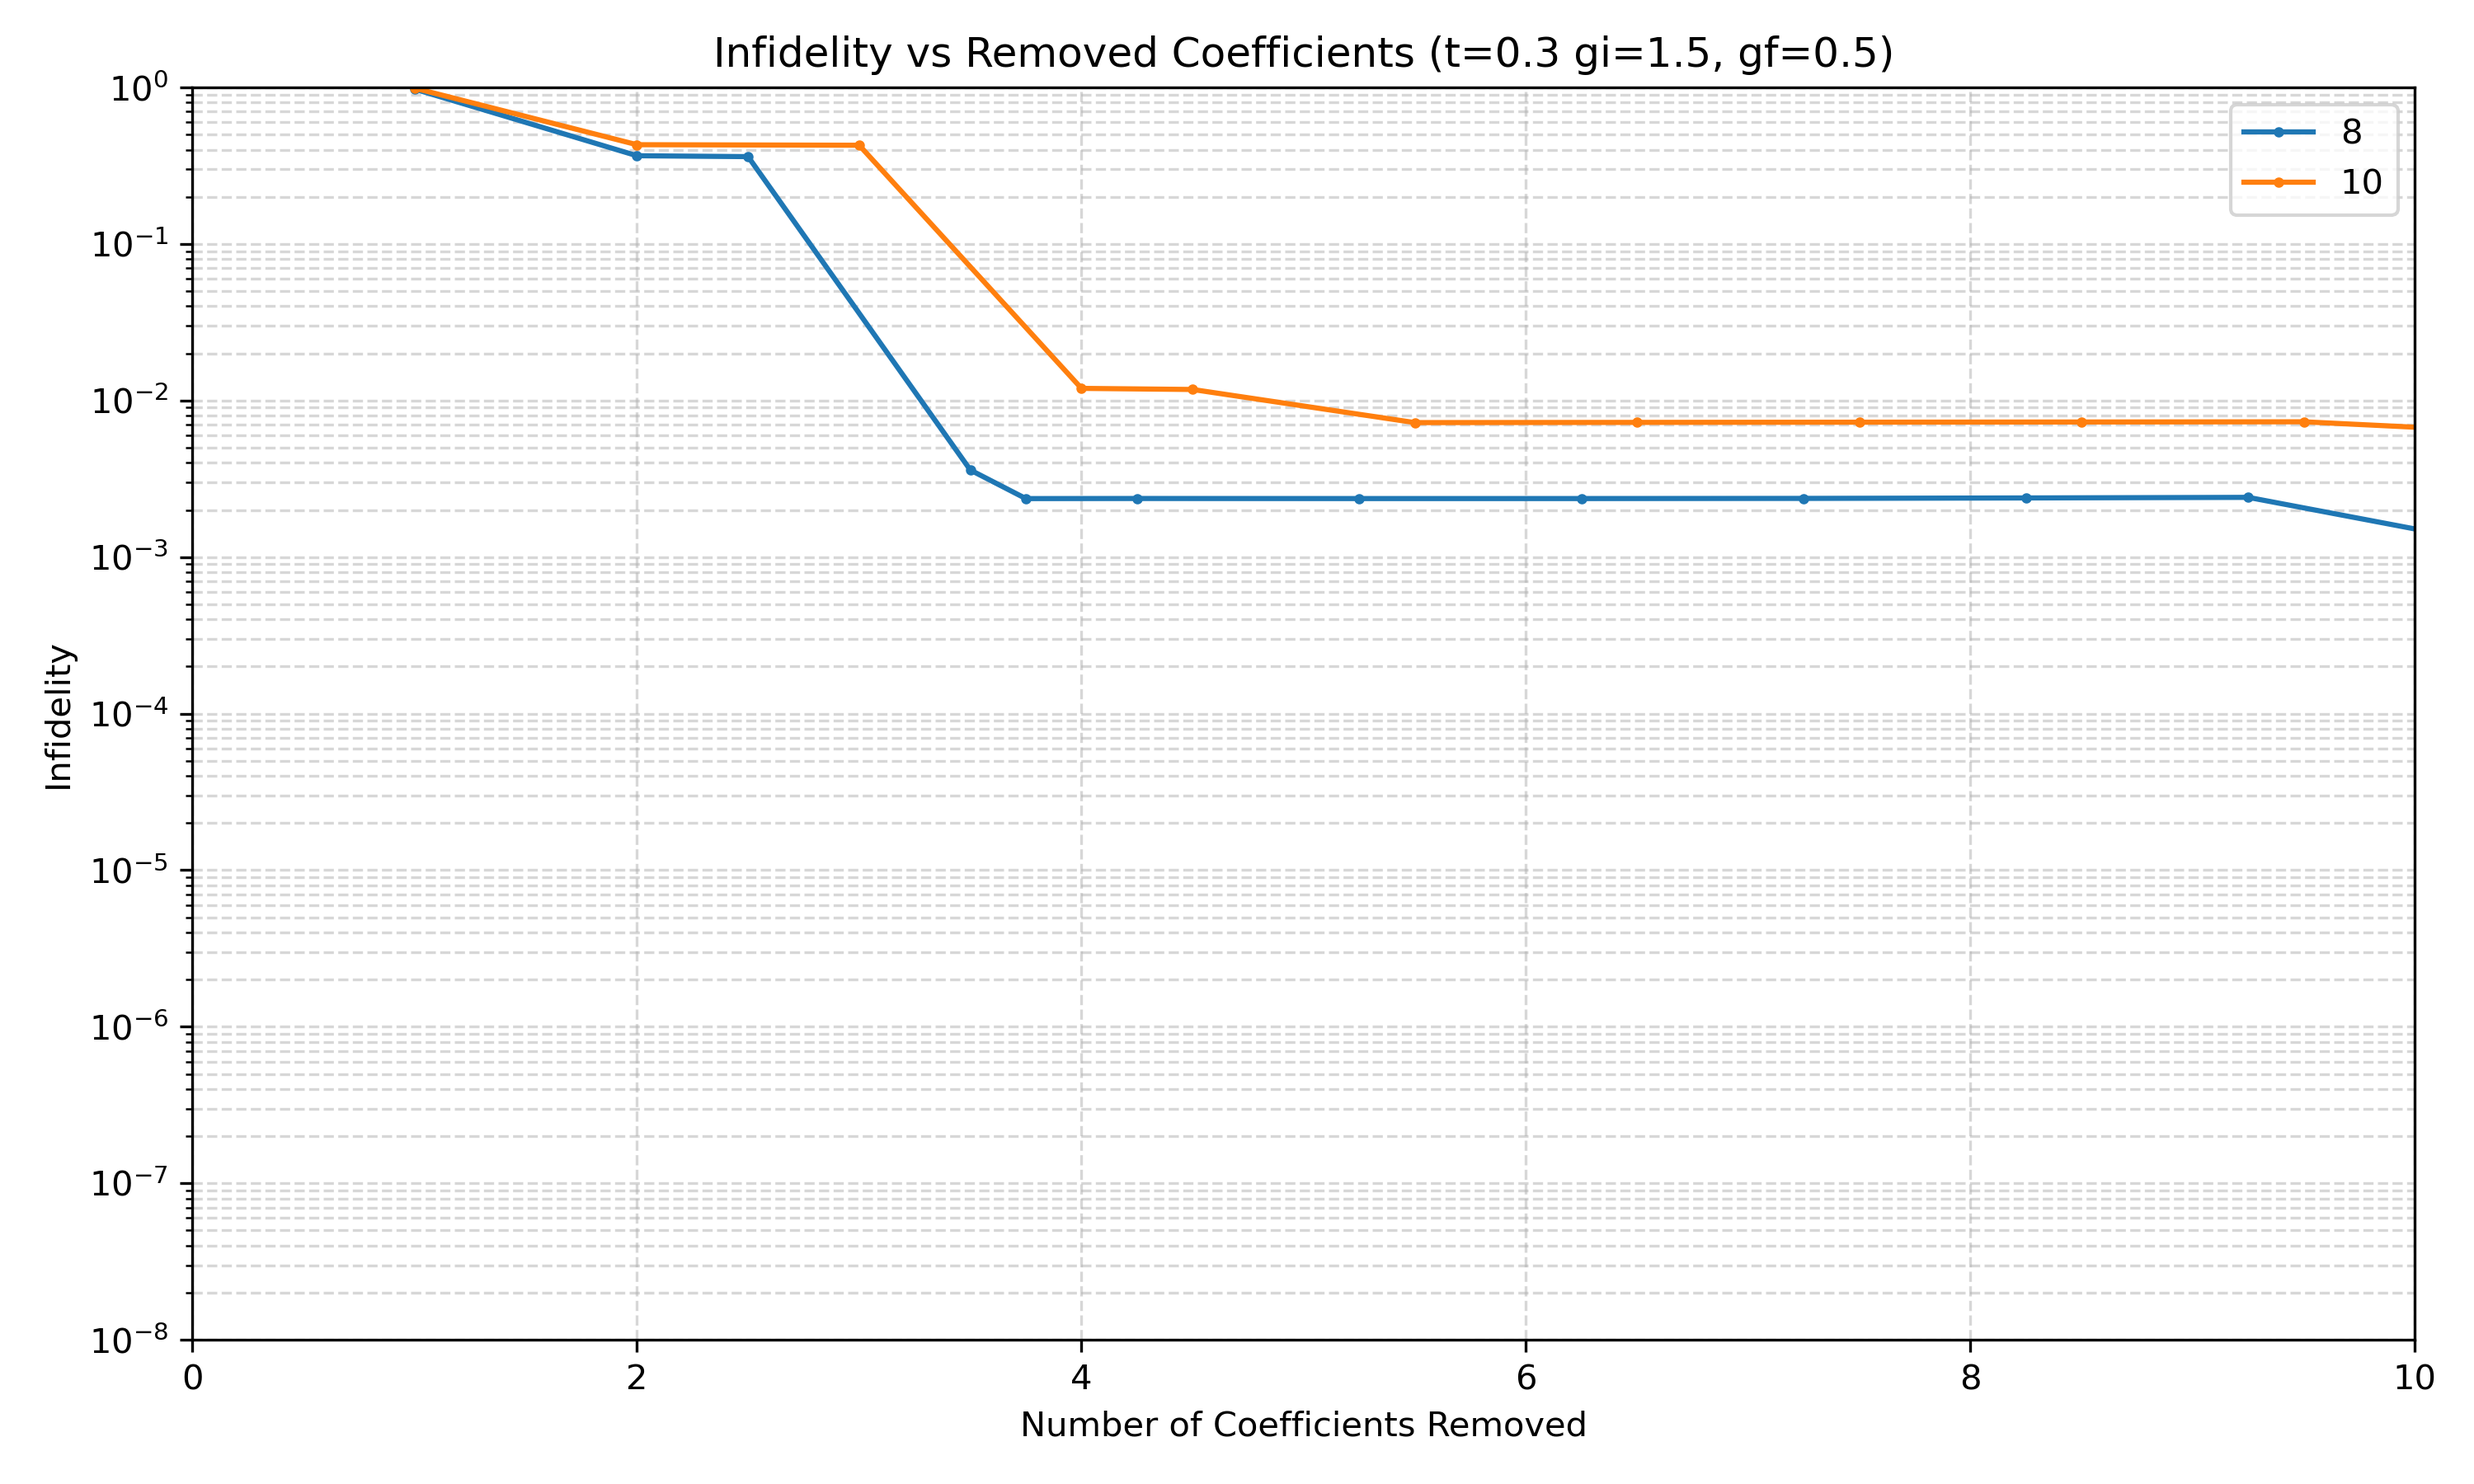
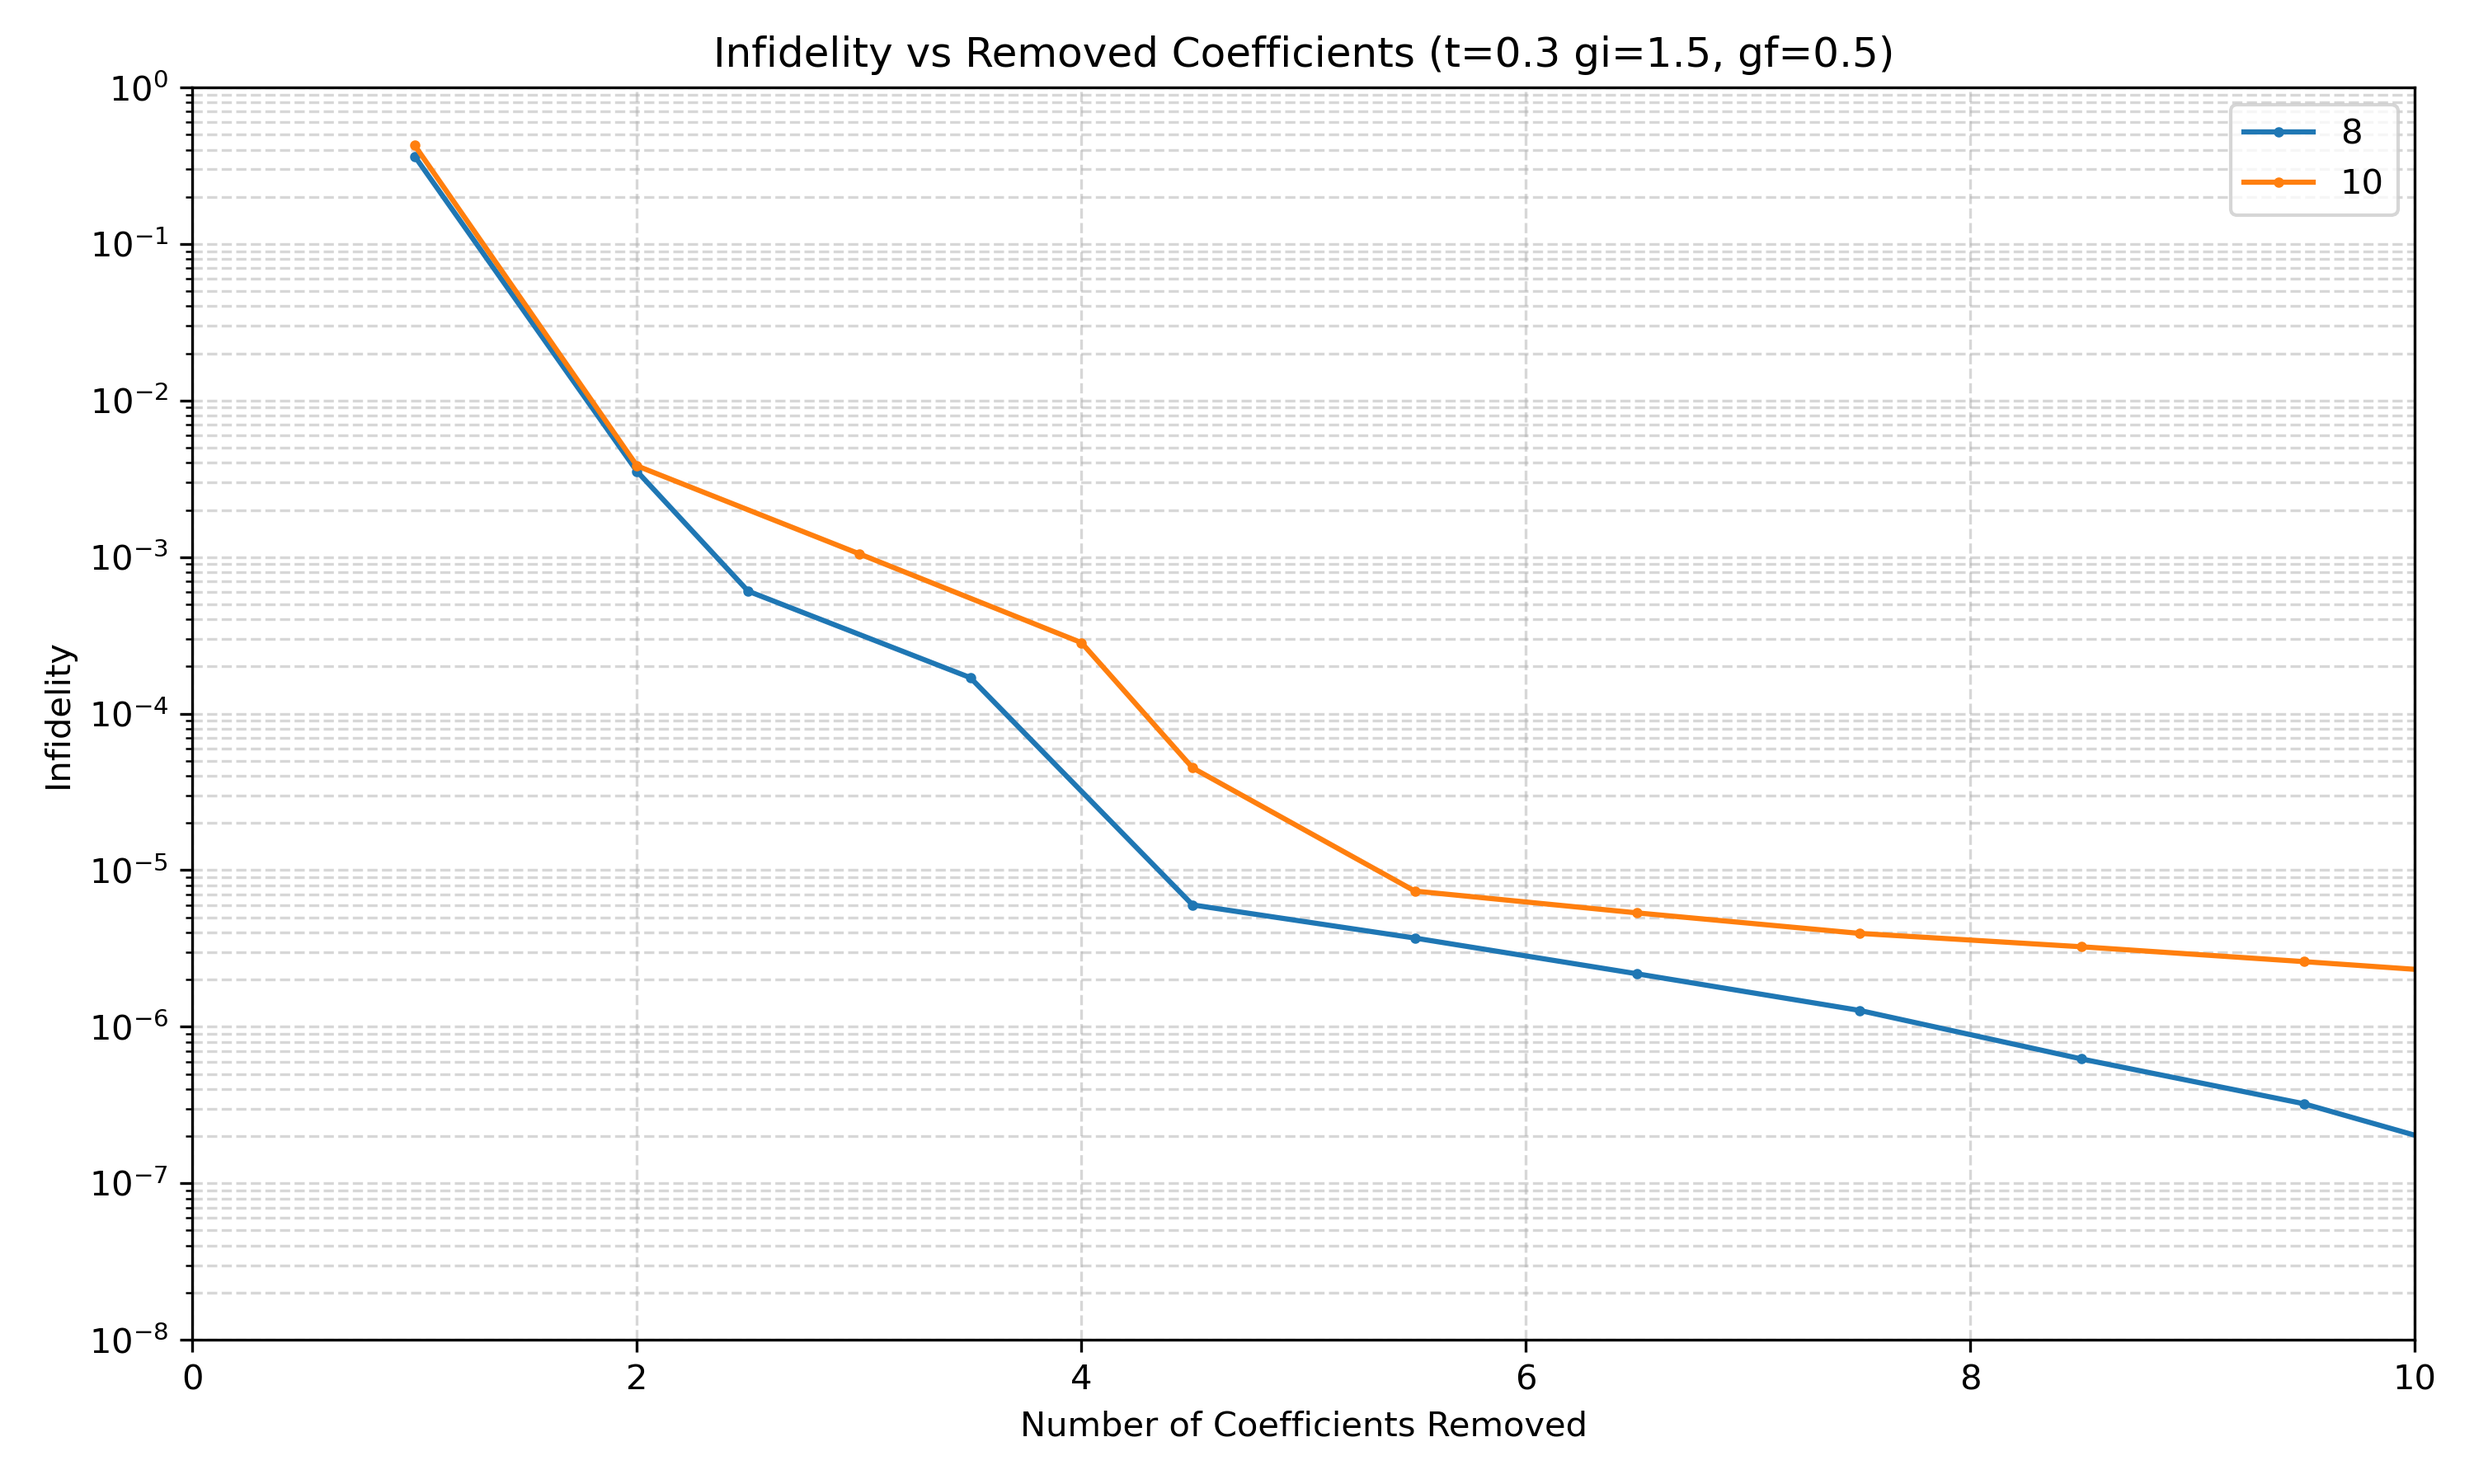
added

diff --git a/calculate_sorting_pbc_v2.py b/calculate_sorting_pbc_v2.py
@@ -110,6 +110,86 @@ def sweeps(target_psi, psi, nstates, hi, past_inf, L, idx_groups, ngroups, conti
         past_inf = best_inf
 
     return infs, order
+
+def sweeps(target_psi, psi, nstates, hi, past_inf, L, idx_groups, ngroups, continuous=False):
+    batch_dims = target_psi.shape[:-1]
+
+    # Ensure initial wavefunctions are strictly normalized in real space
+    target_psi = target_psi / np.sqrt(np.sum(target_psi ** 2))
+    psi = psi / np.sqrt(np.sum(psi ** 2))
+
+    # We only need the WHT once to precompute the exponent matrices
+    wht_log_psi = Fast_Hadamard(np.log(psi))
+
+    print("Precomputing exponent matrices for all groups...")
+    exp_minus_E = np.zeros((ngroups, nstates), dtype=float)
+    exp_minus_2E = np.zeros((ngroups, nstates), dtype=float)
+
+    for i, idxs_group in enumerate(idx_groups):
+        V = np.zeros(nstates, dtype=wht_log_psi.dtype)
+        for g in idxs_group:
+            # Optional safeguard: if g == 0 is in a group, its WHT value is just the global norm offset.
+            # Keeping it or setting V[0] = 0 prevents exp(-E) from blowing up numerically.
+            if g != 0:
+                V[g] = wht_log_psi[g]
+
+        E = Fast_Hadamard(V) * nstates
+        # Subtract the mean of E to prevent exponential overflow/underflow; 
+        # a constant shift in E cancels out in (overlap_sq / norm_sq)
+        E_shifted = E - np.mean(E)
+        exp_minus_E[i] = np.exp(-E_shifted)
+        exp_minus_2E[i] = np.exp(-2 * E_shifted)
+
+    infs = np.ones(batch_dims + (ngroups,), dtype=float)
+    order = np.ones(batch_dims + (ngroups,), dtype=int)
+
+    active_mask = np.ones(ngroups, dtype=bool)
+    global_idx_array_group = np.arange(0, ngroups, dtype=int)
+    
+    # Maintain the state directly in real space
+    current_psi = psi.copy()
+
+    # Sweep exactly ngroups times
+    for kk in range(ngroups):
+        # 1. A_real and C_real are calculated instantly in real space
+        A_real = target_psi * current_psi
+        C_real = current_psi ** 2
+
+        # 2. SIMULTANEOUS EVALUATION: Evaluate all active groups instantly
+        sum_a_0 = np.dot(exp_minus_E[active_mask], A_real)
+        sum_c_0 = np.dot(exp_minus_2E[active_mask], C_real)
+
+        overlap_sq = sum_a_0 ** 2
+        norm_sq = sum_c_0
+
+        # Since target_psi is normalized, 1 - overlap_sq / norm_sq is exact
+        group_infs = 1.0 - (overlap_sq / norm_sq)
+
+        # 3. Find the best candidate among active groups
+        if not continuous:
+            best_idx = np.argmin(group_infs, axis=-1)
+        else:
+            diff = np.abs(past_inf - group_infs)
+            best_idx = np.argmin(diff, axis=-1)
+
+        # Map local best_idx to global group index FIRST
+        global_idx_group = global_idx_array_group[active_mask][best_idx]
+        chosen_group = idx_groups[global_idx_group]
+        best_inf = group_infs[best_idx]
+
+        # 4. Apply the exact multi-state update using the GLOBAL index
+        current_psi = current_psi * exp_minus_E[global_idx_group]
+        # Renormalize current_psi at each step to prevent floating-point drift
+        current_psi /= np.sqrt(np.sum(current_psi ** 2))
+
+        active_mask[global_idx_group] = False
+
+        infs[..., kk] = best_inf
+        order[..., kk] = chosen_group[0]
+        past_inf = best_inf
+
+    return infs, order
+
 # Initial parameters ....
 if __name__ == "__main__":
     parser = argparse.ArgumentParser()
